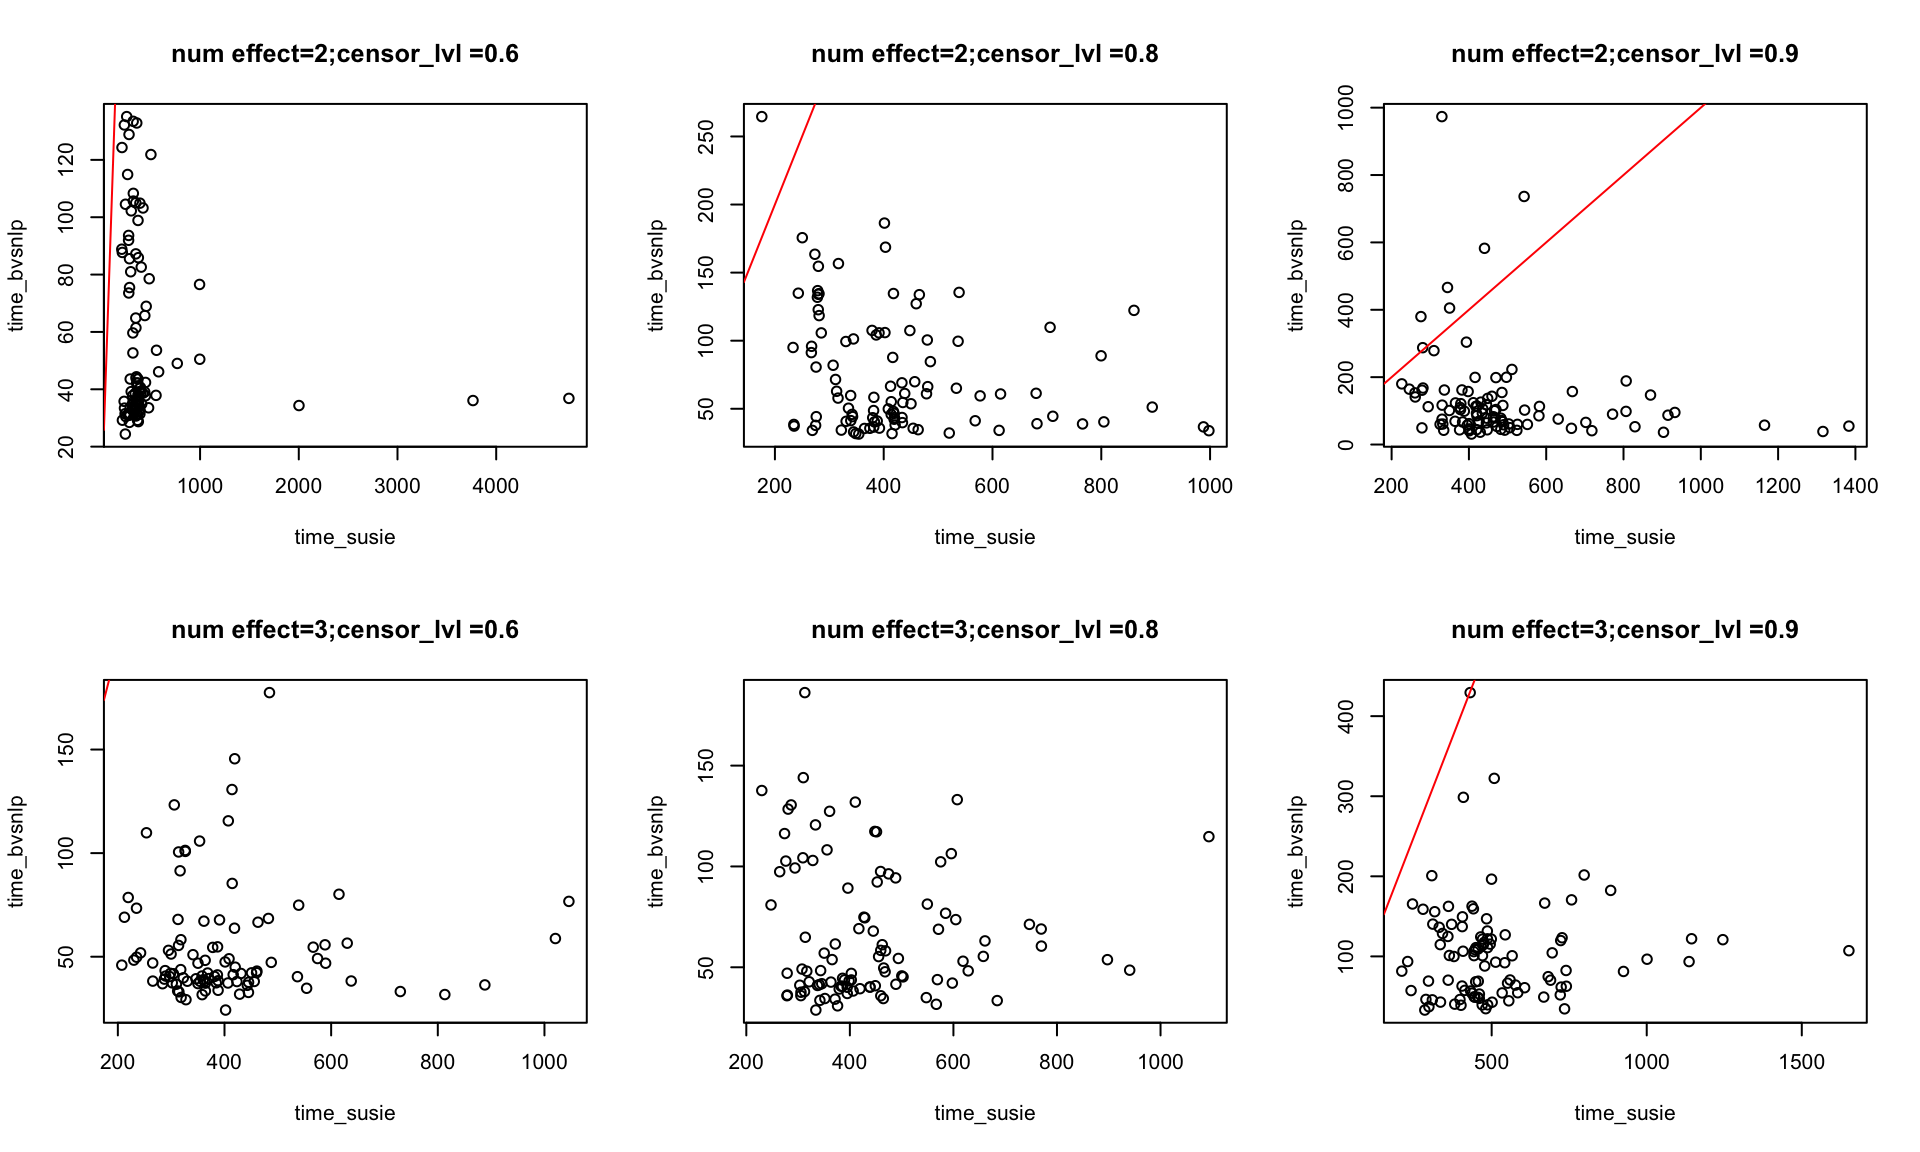
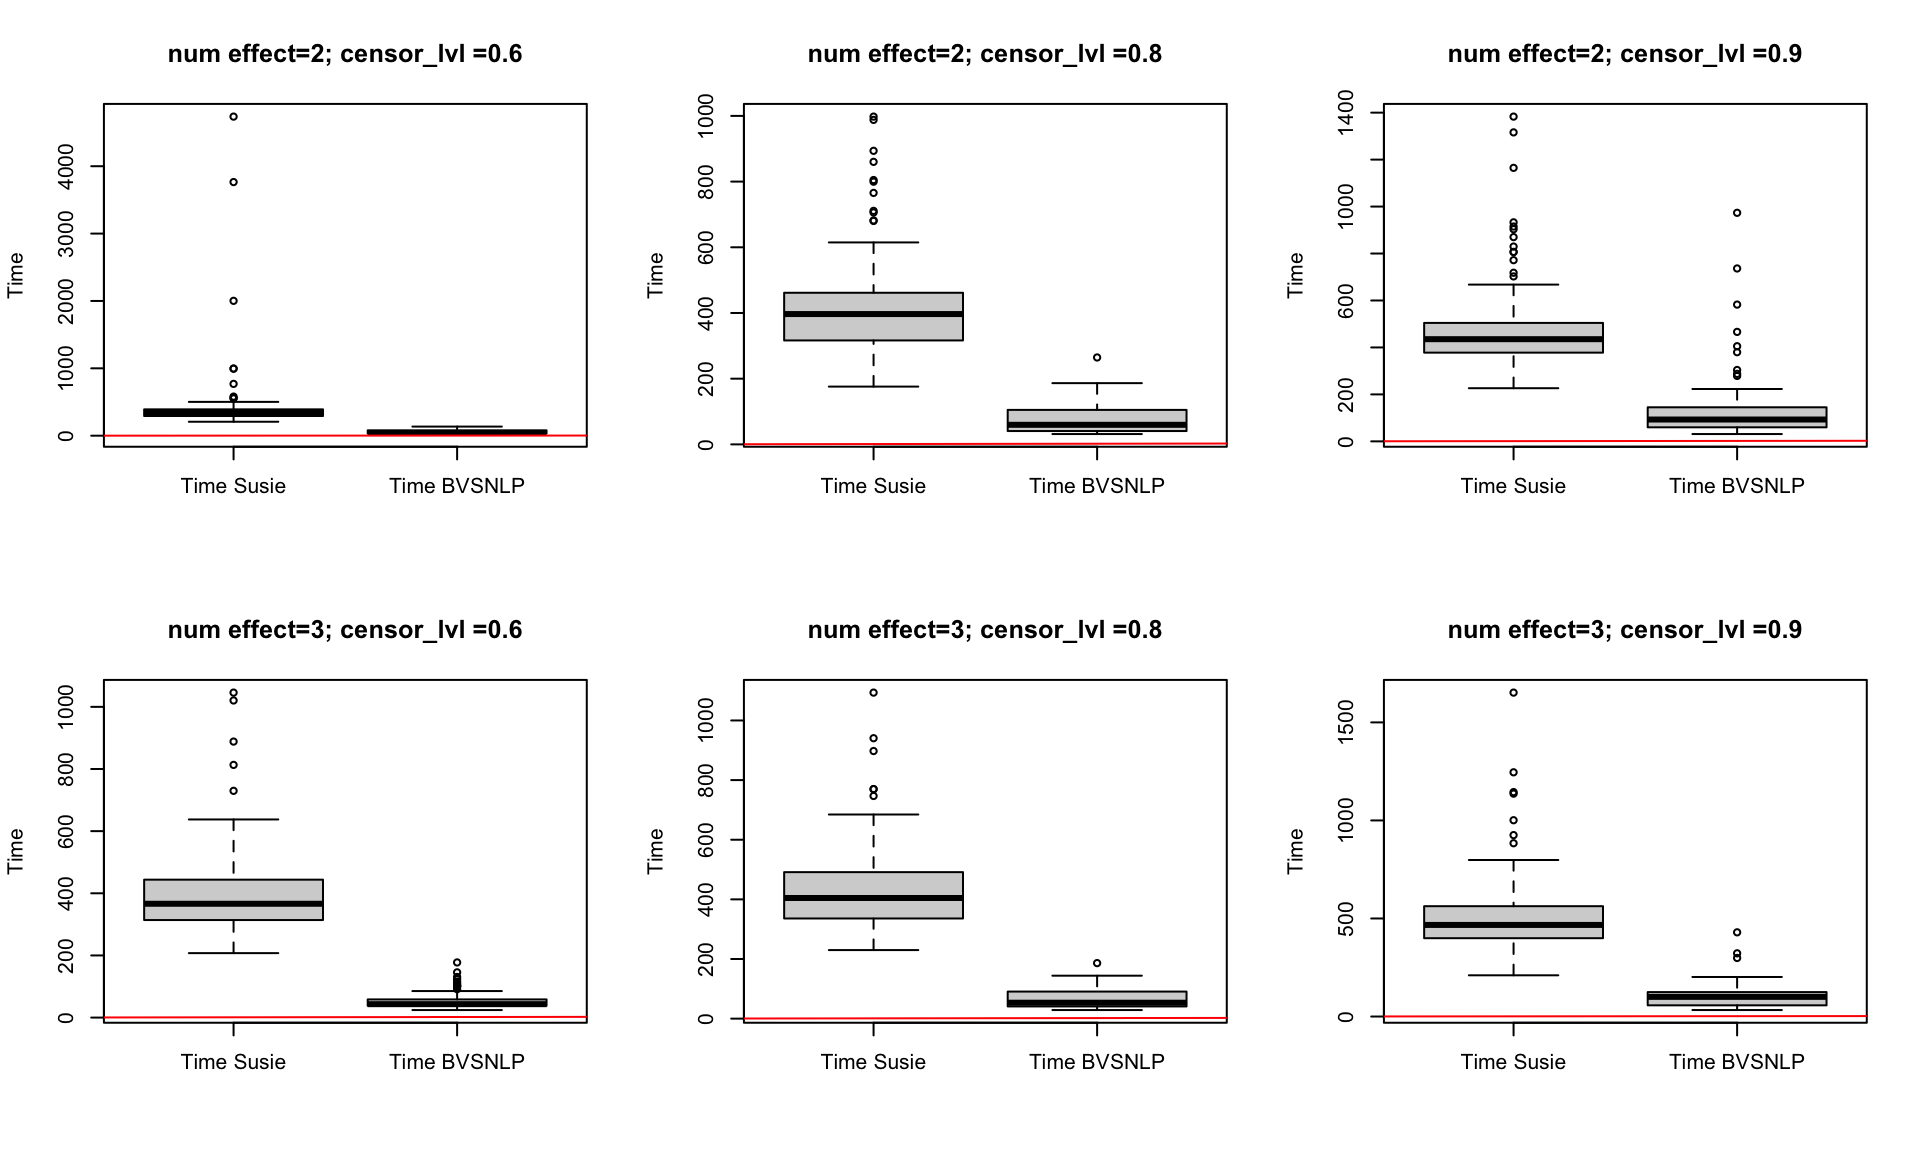
Build site.

diff --git a/docs/time_comparison.html b/docs/time_comparison.html
@@ -384,7 +384,7 @@ div.tocify {
 <div class="tab-content">
 <div id="summary" class="tab-pane fade in active">
 <p>
-<strong>Last updated:</strong> 2023-09-29
+<strong>Last updated:</strong> 2024-01-10
 </p>
 <p>
 <strong>Checks:</strong> <span class="glyphicon glyphicon-ok text-success" aria-hidden="true"></span> 7 <span class="glyphicon glyphicon-exclamation-sign text-danger" aria-hidden="true"></span> 0
@@ -475,16 +475,16 @@ This reproducible <a href="http://rmarkdown.rstudio.com">R Markdown</a> analysis
 <div class="panel panel-default">
 <div class="panel-heading">
 <p class="panel-title">
-<a data-toggle="collapse" data-parent="#workflowr-checks" href="#strongRepositoryversionstrongahrefhttpsgithubcomyunqiyang0215survivalsusietree2c9c8ceceacc32725a9fd3330f5ba04aeb1f73d0targetblank2c9c8cea"> <span class="glyphicon glyphicon-ok text-success" aria-hidden="true"></span> <strong>Repository version:</strong> <a href="https://github.com/yunqiyang0215/survival-susie/tree/2c9c8ceceacc32725a9fd3330f5ba04aeb1f73d0" target="_blank">2c9c8ce</a> </a>
+<a data-toggle="collapse" data-parent="#workflowr-checks" href="#strongRepositoryversionstrongahrefhttpsgithubcomyunqiyang0215survivalsusietree338668ff2b01afc444f565b69338e4ea96319560targetblank338668fa"> <span class="glyphicon glyphicon-ok text-success" aria-hidden="true"></span> <strong>Repository version:</strong> <a href="https://github.com/yunqiyang0215/survival-susie/tree/338668ff2b01afc444f565b69338e4ea96319560" target="_blank">338668f</a> </a>
 </p>
 </div>
[2 lines of base64/hex data omitted]
 <div class="panel-body">
 <p>
 Great! You are using Git for version control. Tracking code development and connecting the code version to the results is critical for reproducibility.
 </p>
 <p>
-The results in this page were generated with repository version <a href="https://github.com/yunqiyang0215/survival-susie/tree/2c9c8ceceacc32725a9fd3330f5ba04aeb1f73d0" target="_blank">2c9c8ce</a>. See the <em>Past versions</em> tab to see a history of the changes made to the R Markdown and HTML files.
+The results in this page were generated with repository version <a href="https://github.com/yunqiyang0215/survival-susie/tree/338668ff2b01afc444f565b69338e4ea96319560" target="_blank">338668f</a>. See the <em>Past versions</em> tab to see a history of the changes made to the R Markdown and HTML files.
 </p>
 <p>
 Note that you need to be careful to ensure that all relevant files for the analysis have been committed to Git prior to generating the results (you can use <code>wflow_publish</code> or <code>wflow_git_commit</code>). workflowr only checks the R Markdown file, but you know if there are other scripts or data files that it depends on. Below is the status of the Git repository when the results were generated:
@@ -495,9 +495,6 @@ Ignored files:
     Ignored:    .Rhistory
     Ignored:    .Rproj.user/
     Ignored:    data/.DS_Store
-
-Untracked files:
-    Untracked:  data/time_comparison.rds
 
 Unstaged changes:
     Modified:   analysis/run_ser_simple_dat.Rmd
@@ -541,6 +538,40 @@ Message
 </tr>
 </thead>
 <tbody>
+<tr>
+<td>
+Rmd
+</td>
+<td>
+<a href="https://github.com/yunqiyang0215/survival-susie/blob/338668ff2b01afc444f565b69338e4ea96319560/analysis/time_comparison.Rmd" target="_blank">338668f</a>
+</td>
+<td>
+yunqiyang0215
+</td>
+<td>
+2024-01-10
+</td>
+<td>
+wflow_publish("analysis/time_comparison.Rmd")
+</td>
+</tr>
+<tr>
+<td>
+html
+</td>
+<td>
+<a href="https://rawcdn.githack.com/yunqiyang0215/survival-susie/599b9e98f73856e21a787ffc0aa131df2312e30c/docs/time_comparison.html" target="_blank">599b9e9</a>
+</td>
+<td>
+yunqiyang0215
+</td>
+<td>
+2023-09-29
+</td>
+<td>
+Build site.
+</td>
+</tr>
 <tr>
 <td>
 Rmd
@@ -632,11 +663,53 @@ for (i in 1:length(num_effect)){
     indx = susie$simulate.num_effect == num_effect[i] &amp; susie$simulate.censor_lvl == censor_lvl[j]
     time_susie = susie$susie.DSC_TIME[indx]
     time_bvsnlp = bvsnlp$bvsnlp.DSC_TIME[indx]
-    plot(time_susie, time_bvsnlp, main = paste0(&quot;num effect=&quot;, num_effect[i], &quot;;censor_lvl =&quot;, censor_lvl[j]))
+    
+    dat &lt;- list(time_susie, time_bvsnlp)
+    boxplot(dat, 
+        names = c(&quot;Time Susie&quot;, &quot;Time BVSNLP&quot;),
+        main = paste0(&quot;num effect=&quot;, num_effect[i], &quot;; censor_lvl =&quot;, censor_lvl[j]),
+        ylab = &quot;Time&quot;)
     abline(a = 0, b = 1, col = &quot;red&quot;)
   }
 }</code></pre>
 <p><img src="figure/time_comparison.Rmd/unnamed-chunk-4-1.png" width="960" style="display: block; margin: auto;" /></p>
+<p>
+<button type="button" class="btn btn-default btn-xs btn-workflowr btn-workflowr-fig" data-toggle="collapse" data-target="#fig-unnamed-chunk-4-1">
+Past versions of unnamed-chunk-4-1.png
+</button>
+</p>
+<div id="fig-unnamed-chunk-4-1" class="collapse">
+<div class="table-responsive">
+<table class="table table-condensed table-hover">
+<thead>
+<tr>
+<th>
+Version
+</th>
+<th>
+Author
+</th>
+<th>
+Date
+</th>
+</tr>
+</thead>
+<tbody>
+<tr>
+<td>
+<a href="https://github.com/yunqiyang0215/survival-susie/blob/599b9e98f73856e21a787ffc0aa131df2312e30c/docs/figure/time_comparison.Rmd/unnamed-chunk-4-1.png" target="_blank">599b9e9</a>
+</td>
+<td>
+yunqiyang0215
+</td>
+<td>
+2023-09-29
+</td>
+</tr>
+</tbody>
+</table>
+</div>
+</div>
 <br>
 <p>
 <button type="button" class="btn btn-default btn-workflowr btn-workflowr-sessioninfo" data-toggle="collapse" data-target="#workflowr-sessioninfo" style="display: block;">
